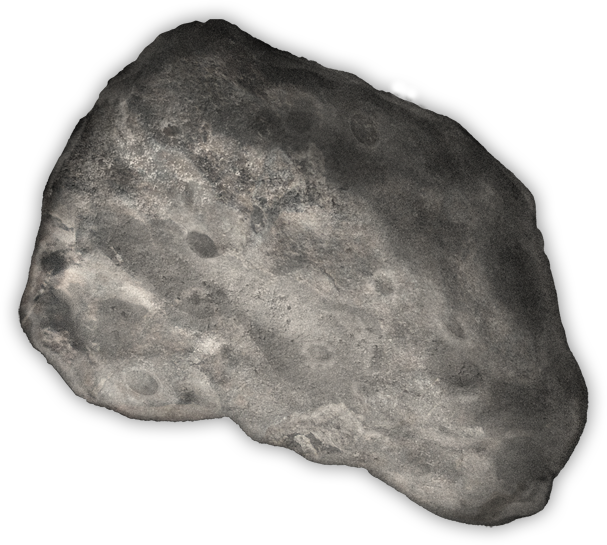
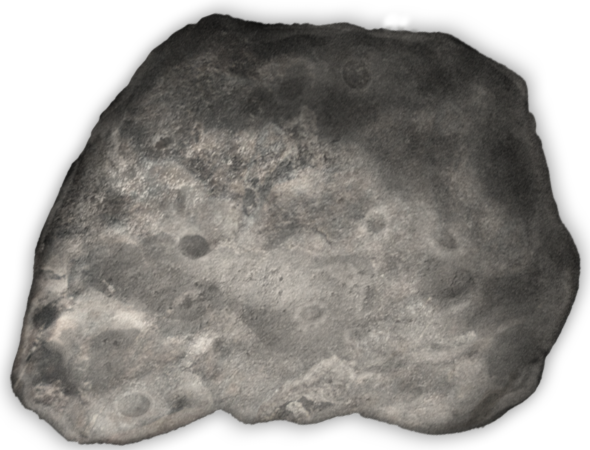
add new type of rocket

diff --git a/components/component.js b/components/component.js
@@ -1,7 +1,9 @@
+const PLAY_SHOOT_PER_RENDER = 10;
+
 class Component {
     constructor(width, height, color, x, y) {
         this.width = width;
-        this.height = height,
+        this.height = height;
         this.speedX = 0;
         this.speedY = 0;
         this.x = x;
@@ -42,7 +44,7 @@ class Component {
 
 class CImage extends Component {
     constructor(width, height, imageSource, x, y) {
-        super(width, height, imageSource, x, y)
+        super(width, height, imageSource, x, y);
         this.lockUpdate = false;
         var self = this;
         this.lockUpdate = true;
@@ -123,7 +125,7 @@ class Player extends CImage {
         super(width, height, background, 0, 0);
         this.rockets = [];
         this.shootSeries = 5;
-        this.rocketFactory = new RocketFactory("Rocket");
+        this.rocketFactory = new RocketFactory("BaseRocket");
         this.shootBonus = null;
         this.shieldBonus = null;
     }
@@ -169,13 +171,8 @@ class Player extends CImage {
         }
     }
     shoot() {
-        if (this.shootSeries % 5 == 0) {
-            if (this.shootBonus != null) {
-                var f = new RocketFactory("BigRocket");
-                this.rockets.push(f.create(this.x + (this.width/2), this.y));
-            } else {
-                this.rockets.push(this.rocketFactory.create(this.x + (this.width/2), this.y));
-            }
+        if (this.shootSeries % this.rocketFactory.getRocketSpeed() == 0) {
+            this.rockets.push(this.rocketFactory.create(this.x + (this.width/2), this.y));
             this.shootSound.stop();
             this.shootSound.play();
         }
@@ -183,12 +180,12 @@ class Player extends CImage {
     }
 
     shootRelease() {
-        this.shootSeries = 5;
+        this.shootSeries = this.rocketFactory.getRocketSpeed();
     }
 
     setBonus(bonus) {
         if (bonus.type == "rocket") {
-            this.shootBonus = bonus;
+            this.rocketFactory = bonus.rocketFactory;
         } else {
             this.shieldBonus = bonus;
         }
@@ -253,41 +250,5 @@ class Asteroid extends CImage {
         if (r <=  + Math.sqrt(a*a + b*b)) {
             return true;
         }
-    }
-}
-
-class RocketFactory {
-    constructor(rocketType) {
-        this.rocketType = rocketType;
-    }
-
-    create(x, y) {
-        return eval("new " + this.rocketType + "(" + x + ", " + y + ")");
-    }
-
-    setRocketType(type) {
-        this.rocketType = type;
-    }
-}
-
-class Rocket extends CImage {
-    constructor(x, y) {
-        super(13, 19, "assets/rocket_missile.png", x, y);
-        this.hit = 10;
-    }
-
-    update(canvas) {
-        super.update(canvas);
-    }
-}
-
-class BigRocket extends CImage {
-    constructor(x, y) {
-        super(20, 28, "assets/bigrocket_missile.png", x, y)
-        this.hit = 100;
-    }
-
-    update(canvas) {
-        super.update(canvas);
     }
 }

diff --git a/maps.js b/maps.js
@@ -23,7 +23,8 @@ class GameMap {
             var y = 0;
             var x = Math.floor(Math.random() * w);
             var height = Math.floor(Math.random()*(maxSize - ASTEROID_MIN_SIZE + 1)) + ASTEROID_MIN_SIZE;
-            this.asteroids.push(new Asteroid(height, height, "assets/asteroid.png", x, y, life));
+            var factor = height / maxSize;
+            this.asteroids.push(new Asteroid(Math.floor(height * 1.3), height, "assets/asteroid.png", x, y, life + life * factor));
         }
     }
     
@@ -48,7 +49,6 @@ class GameMap {
             this.createAsteroidsIn(game, ASTEROID_MAX_SIZE, this.count, this.asteroidLife);
         }
         this.asteroids = this.asteroids.filter(asteroid => {
-            debugger;
             if (asteroid.y > game.height) {
                 return false;
             }
@@ -57,7 +57,7 @@ class GameMap {
                 game.score += DEFEATE_ASTEROID_POINTS;
                 var rand = Math.floor(Math.random() * 10);
                 if (rand == 1) {
-                    this.bonuses.push(new RocketBonus(asteroid.x, asteroid.y));
+                    this.bonuses.push(new RocketBonus(asteroid.x, asteroid.y, randomRocket()));
                 } else if (rand == 2) {
                     this.bonuses.push(new ShieldBonus(asteroid.x, asteroid.y));
                 }
@@ -114,5 +114,18 @@ var maps = [new GameMap({
 
 function everyInterval(frameNo, targetFrame) {
     return (frameNo / targetFrame) % 1 == 0; 
+}
+
+function randomRocket() {
+    var rand = Math.floor(Math.random() * 3);
+    switch (rand) {
+        case 0:
+            return new RocketFactory("BigRocket");
+        case 1:
+            return new RocketFactory("LaserWave");
+
+        default:
+            return new RocketFactory("BaseRocket");
+    }
 }
 

diff --git a/components/bonuses.js b/components/bonuses.js
@@ -1,20 +1,39 @@
 class Bonus extends Component {
-    constructor(x, y, type, color, time) {
-        super(18, 18, color, x, y);
-        this.time = time;
+    constructor(x, y, type, color, size) {
+        super(size, size, color, x, y);
         this.type = type;
     }
 }
 
 class RocketBonus extends Bonus {
-    constructor(x, y) {
-        super(x, y, "rocket", "red", 10000);
+    /**
+     * 
+     * @param {number} x 
+     * @param {number} y 
+     * @param {RocketFactory} rocketFactory 
+     */
+    constructor(x, y, rocketFactory) {
+        super(x, y, "rocket", "rgba(255, 0, 0, 0.2)", 30);
+        if (rocketFactory.templateObject.width > rocketFactory.templateObject.height) {
+            this.height = this.height * this.width / rocketFactory.templateObject.width;
+        } else {
+            this.width = this.width * this.heigh / rocketFactory.templateObject.height;
+        }
+        console.log("size:" + this.width + "; " + this.height);
+        this.rocketFactory = rocketFactory;
+    }
+
+    update(canvas) {
+        super.update(canvas);
+        var ctx = canvas.getContext("2d");
+        ctx.drawImage(this.rocketFactory.getRocketImage(), this.x, this.y, this.width, this.height);
     }
 }
-
+   
 class ShieldBonus extends Bonus {
     constructor(x, y) {
-        super(x, y, "shield", "blue", 10000);
+        super(x, y, "shield", "blue", 18);
+        this.time = 6000;
         this.image = GameManager.imageLoader.getImage("assets/shield.png");
     }
 }

diff --git a/components/rocket.js b/components/rocket.js
@@ -1,0 +1,67 @@
+class RocketFactory {
+    /**
+     * 
+     * @param {string} rocketType 
+     */
+    constructor(rocketType) {
+        this.rocketType = rocketType;
+        /**
+        * @type Rocket
+        */
+        this.templateObject = eval("new " + this.rocketType + "(-1, -1)");
+    }
+
+    create(x, y) {
+        return eval("new " + this.rocketType + "(" + x + ", " + y + ")");
+    }
+
+    setRocketType(type) {
+        this.rocketType = type;
+    }
+
+    getRocketSpeed() {
+        return this.templateObject.rocketSpeed();
+    }
+
+    getRocketImage() {
+        return this.templateObject.image;
+    }
+}
+
+class Rocket extends CImage {
+    constructor(width, height, rocketImage, x, y, hit) {
+        super(width, height, rocketImage, x - width/2, y);
+        this.hit = hit;
+    }
+
+    rocketSpeed() {
+        return PLAY_SHOOT_PER_RENDER;
+    }
+}
+
+class BaseRocket extends Rocket {
+    constructor(x, y) {
+        super(13, 19, "assets/rocket_missile.png", x, y, 30);
+    }
+}
+
+class BigRocket extends Rocket {
+    constructor(x, y) {
+        super(20, 28, "assets/bigrocket_missile.png", x, y, 150);
+    }
+
+    rocketSpeed() {
+        return 20;
+    }
+}
+
+class LaserWave extends Rocket {
+    constructor(x, y) {
+        super(100, 28, "assets/laser_wave.png", x, y, 200);
+    }
+
+    
+    rocketSpeed() {
+        return 40;
+    }
+}

diff --git a/game.js b/game.js
@@ -1,8 +1,9 @@
-const { remote } = window.require('electron');
+const { remote } = include('electron');
+include('./extension');
 const PLAYER_IMG_SOURCE = "assets/player.png";
 const PLAYER_SPEED = 10;
 const PLAYER_WIDTH = 35;
-const PLAYER_HEIGHT = 50; 
+const PLAYER_HEIGHT = 50;
 
 const GAME_WIDTH = 700;
 const GAME_HEIGHT = 900;
@@ -79,9 +80,9 @@ function gameOver() {
         
     var screen = document.getElementById("endScreen");
     screen.style.display = "block";
-    document.getElementById("yourScore").innerHTML = myGameArea.score;
+    document.getElementById("yourScore").innerHTML = Math.floor(myGameArea.score);
     userScores.push({
-        score: myGameArea.score,
+        score: Math.floor(myGameArea.score),
         userName: userName
     });
     userScores = userScores.sort((x1, x2) => x2.score - x1.score );
@@ -172,6 +173,8 @@ function checkIfPlayerDestroy(currentMap) {
         player.rockets = player.rockets.filter(val => {
             var result = true;
             if (val.hitTest(asteroid)) {
+                console.log(val.constructor.name);
+                console.log(val.hit);
                 asteroid.life -= val.hit;
                 result = false;
             }

diff --git a/lib/include.js b/lib/include.js
@@ -1,0 +1,23 @@
+var include = function(includePath) {
+    console.log(navigator.userAgent != -1);
+    if (navigator.userAgent.indexOf("Electron") == -1) {
+        var incp = includePath;
+        if (incp.indexOf("js") == -1) {
+            incp = incp + ".js";
+        }
+        return includeScript(incp);
+    } else {
+        return window.require(includePath);
+    }
+};
+
+function includeScript(script) {
+    var scriptElem = document.createElement("script");
+    scriptElem.type = 'text/javascript';
+    scriptElem.onload = function() {
+        console.log("script loaded");
+    };
+    scriptElem.src = script;
+    document.head.appendChild(scriptElem);
+    return {};
+}

diff --git a/g2.html b/g2.html
@@ -29,8 +29,9 @@ canvas {
     color: #77ff11;
 }
 </style>
-<script type="text/javascript" src="ext/extension.js" ></script>
+<script type="text/javascript" src="lib/include.js" ></script>
 <script type="text/javascript" src="components/component.js" ></script>
+<script type="text/javascript" src="components/rocket.js" ></script>
 <script type="text/javascript" src="components/sound.js" ></script>
 <script type="text/javascript" src="components/bonuses.js" ></script>
 <script type="text/javascript" src="imageLoader.js" ></script>

diff --git a/gamearea.js b/gamearea.js
@@ -1,4 +1,4 @@
-const SCORE_BY_FRAME = 1;
+const SCORE_BY_FRAME = 0.1;
 
 class GameArea { 
     constructor(width, height) {
@@ -115,7 +115,7 @@ class GameArea {
             ctx.fillText(game.infoText, centerX, centerY);
         }
         game.score += SCORE_BY_FRAME;
-        game.scoreView.text = "SCORE: " + game.score;
+        game.scoreView.text = "SCORE: " + Math.floor(game.score);
         game.scoreView.update(game.canvas);
         game.frameNo++;
         game.infoText = null;

diff --git a/app.js b/app.js
@@ -5,7 +5,6 @@ let win;
 app.on('ready', () => {
     win = new BrowserWindow({width: 800, height: 1000});
     win.loadFile('g2.html');
-
     win.on('closed', () => {
         // Dereference the window object, usually you would store windows
         // in an array if your app supports multi windows, this is the time
